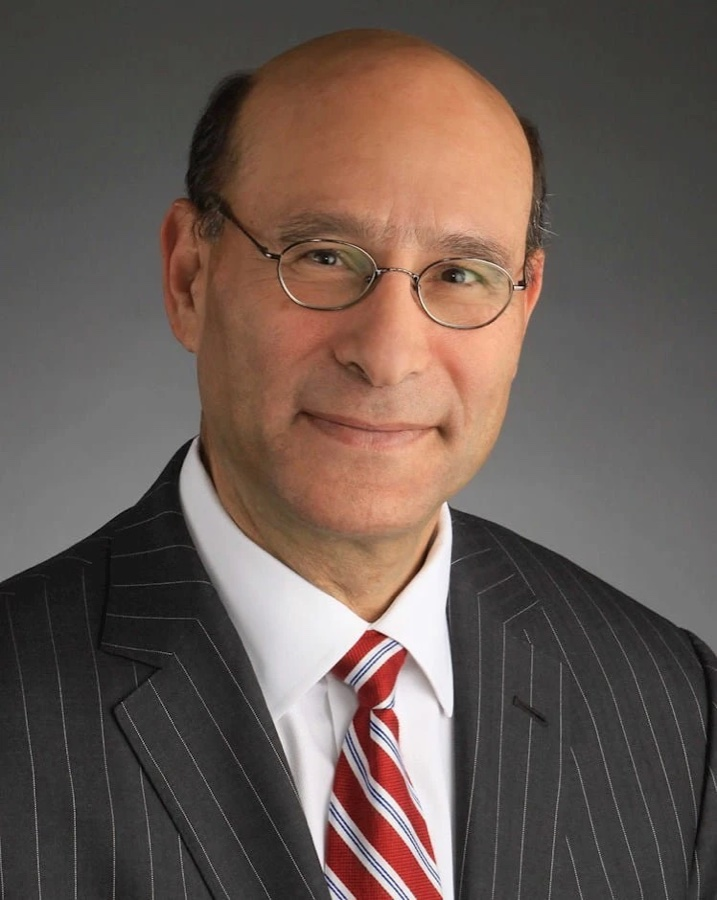
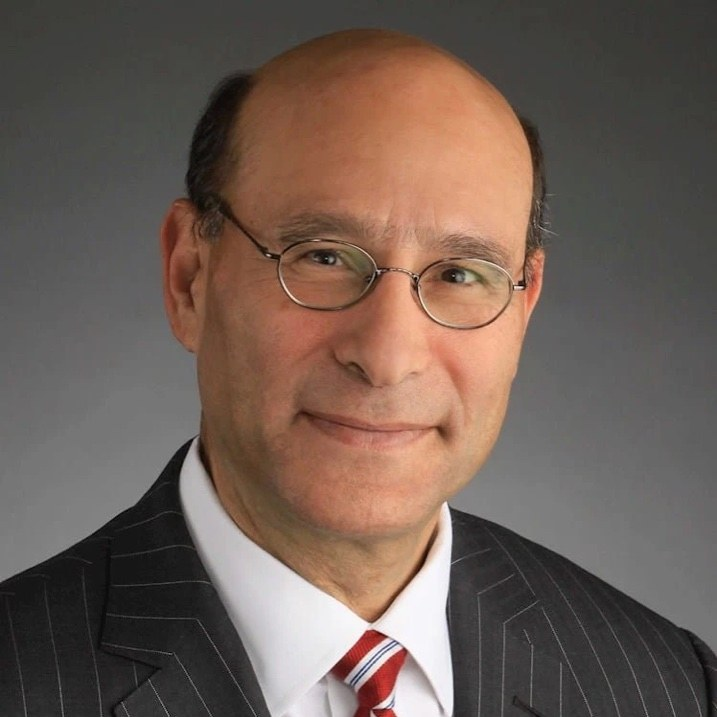
Add Michael R. Levin as advisor; shorten bios and square headshots

diff --git a/site/advisors.html b/site/advisors.html
@@ -100,13 +100,24 @@
       <div class="container">
         <article class="speaker a-fade" style="--d:.15s">
           <div class="speaker__portrait">
-            <img src="assets/advisor-rob-schriesheim.jpg" alt="Robert Schriesheim" width="717" height="900" loading="lazy" decoding="async">
+            <img src="assets/advisor-rob-schriesheim.jpg" alt="Robert Schriesheim" width="717" height="717" loading="lazy" decoding="async">
           </div>
           <div class="speaker__body">
             <h3 class="speaker__name">Robert Schriesheim</h3>
             <p class="speaker__role">Adjunct Associate Professor of Finance, University of Chicago Booth School of Business</p>
-            <p class="speaker__bio">Rob Schriesheim is chairman of Truax Partners, where he works with boards, CEOs, and institutional investors to lead corporate transformations. He has served on 13 public company boards and as CFO of five public companies, including Sears Holdings, where he oversaw $9 billion in spin-offs, and Hewitt Associates, sold to Aon for $5 billion. At Frontier Communications, he led the restructuring of $17.5 billion in debt, named the 2021 Telecom Services Deal of the Year. He sits on the boards of Houlihan Lokey, Skyworks Solutions, and Alight, and was co-chairman of MSC Software through its sale to Elliott. He holds an AB from Princeton and an MBA from Chicago Booth, where he teaches corporate governance.</p>
+            <p class="speaker__bio">Rob Schriesheim is chairman of Truax Partners, where he advises boards, CEOs, and institutional investors on corporate transformations. He has served on 13 public company boards and as CFO of five public companies, including Sears Holdings and Hewitt Associates. He sits on the boards of Houlihan Lokey, Skyworks Solutions, and Alight, and teaches corporate governance at Chicago Booth.</p>
             <a class="speaker__more" href="https://www.chicagobooth.edu/faculty/directory/s/robert-schriesheim" target="_blank" rel="noopener" aria-label="Read Robert Schriesheim&rsquo;s full biography at Chicago Booth">Read full biography</a>
+          </div>
+        </article>
+        <article class="speaker a-fade" style="--d:.25s">
+          <div class="speaker__portrait">
+            <img src="assets/advisor-michael-levin.jpg" alt="Michael R. Levin" width="520" height="520" loading="lazy" decoding="async">
+          </div>
+          <div class="speaker__body">
+            <h3 class="speaker__name">Michael R. Levin</h3>
+            <p class="speaker__role">Activist Investor and Board Chair, Comarco, Inc.</p>
+            <p class="speaker__bio">Michael Levin is an activist investor and management consultant with almost thirty years of experience in investing, corporate finance, and equity turnarounds. He chairs the board of Comarco, Inc. and serves on the board of AG&amp;E Holdings, Inc. He has held leadership positions at Towers Perrin, Deloitte, CNH, and Nicor, and holds bachelor&rsquo;s and master&rsquo;s degrees in economics from the University of Chicago.</p>
+            <a class="speaker__more" href="https://theactivistinvestor.com/The_Activist_Investor/About....html" target="_blank" rel="noopener" aria-label="Read Michael R. Levin&rsquo;s full biography at The Activist Investor">Read full biography</a>
           </div>
         </article>
       </div>
